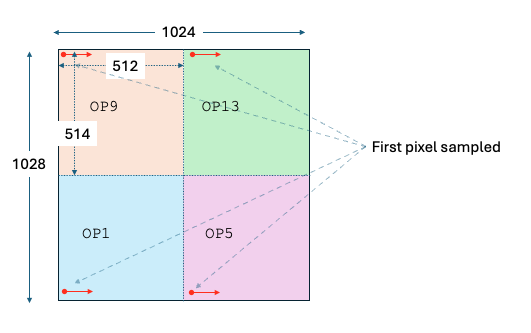
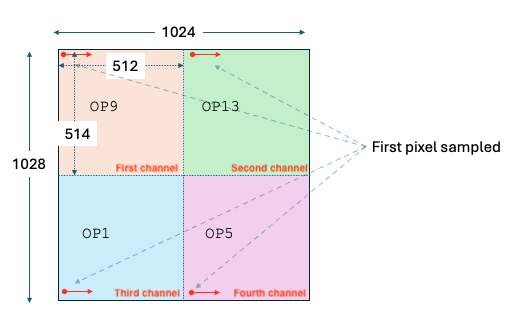
Add channel order convention.

diff --git a/docs/source/background/channels.rst b/docs/source/background/channels.rst
@@ -4,8 +4,8 @@
 Channels
 ========
 
-In Detectors, especially CCDs and CMOSs image sensors, the concept of **channels** is used to enable
-parallel readout of the image data.
+In Detectors, particularly CCDs and CMOSs image sensors, the concept of **channels** enables the
+**parallel readout** of image data.
 This improve readout speed and efficiency by dividing the sensor into multiple regions, each processed independently.
 
 What is a Channel ?
@@ -39,6 +39,18 @@ The supported readout positions are:
 These positions are essential when modeling charge transfer and readout timings,
 as they influence how pixels are clocked out during readout.
 
+
+.. _channels_order:
+
+Channel order convention
+========================
+
+When a detector is divided into multiple channels, the **channel order** follows a consistent convention:
+**top-left** -> **top-right** -> **bottom-left**  -> **bottom right**.
+
+This ordering provides a predictable sequence for processing and simulation, particularly
+when handling channel-specific operations.
+
 Example
 =======
 
@@ -49,8 +61,11 @@ Example
 
     Example with four channels.
 
-This figure above shows a typical configuration of a detector with four channels,
-each associated with its own readout node at the respective corner.
+In this figure above, the detector is split into four quadrants,
+each corresponding to a distinct channel with its own readout node at the respective corner.
+
+Based on the standard readout position, the **channel order** is: ``OP9`` (top-left), ``OP13`` (top-right),
+``OP1`` (bottom-left) and ``OP1`` (bottom-right).
 
 Use in simulation
 =================
